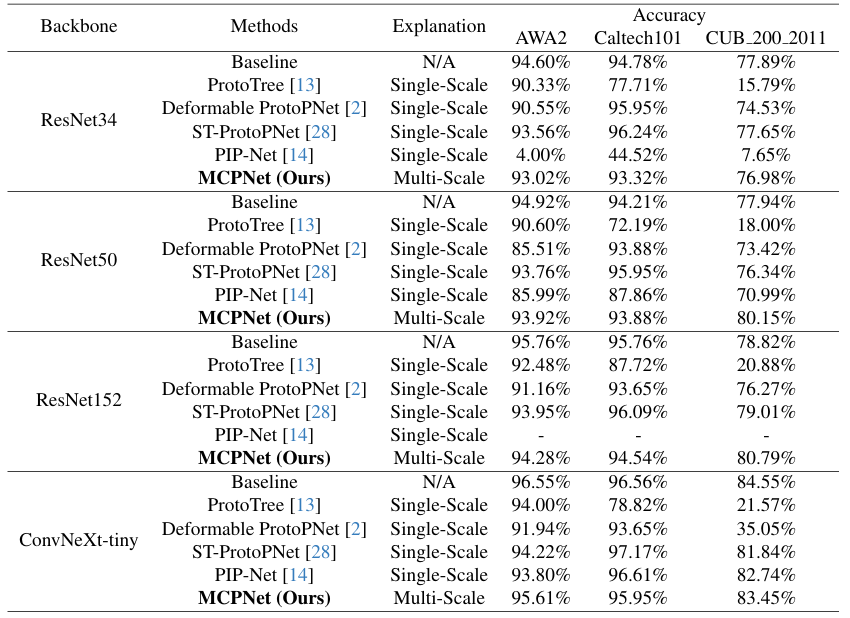
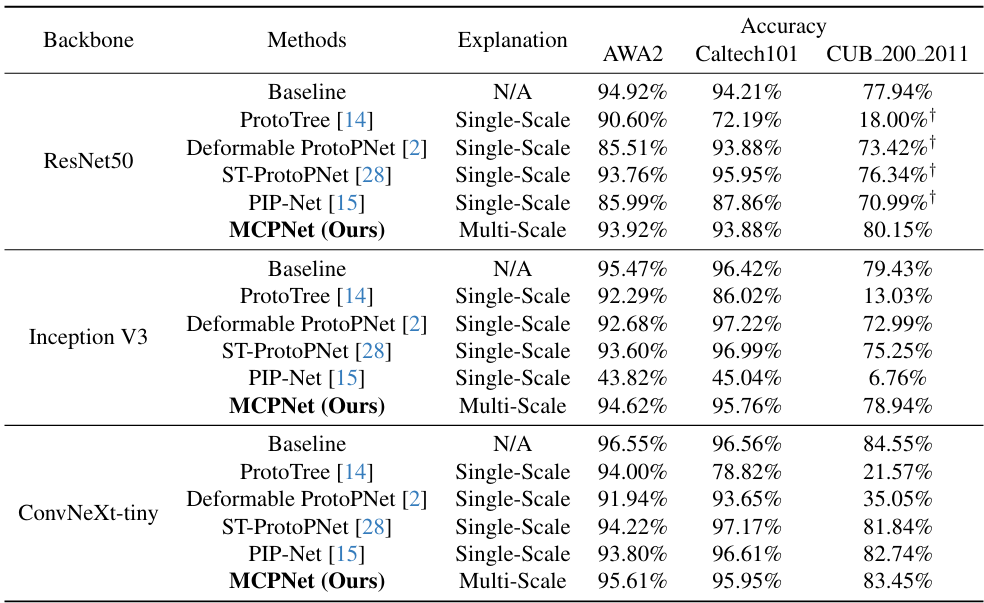
adjust figure size

diff --git a/index.html b/index.html
@@ -141,7 +141,7 @@
                     <h2>Explantions comparisons</h2>
                 </div>
                 <div class="center fade-in-img">
-                    <img src="src/img/More_result.png" width="100%" alt="">
+                    <img src="src/img/More_result.png" width="85%" alt="">
                 </div>
             </section>
         </div>
